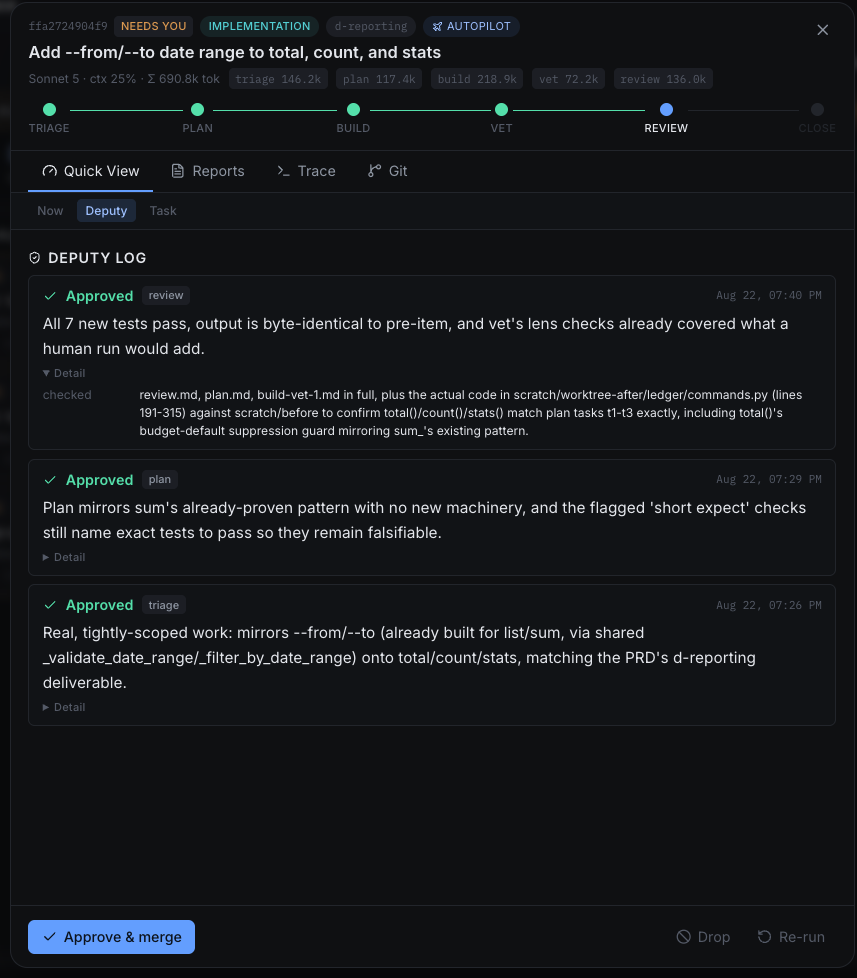
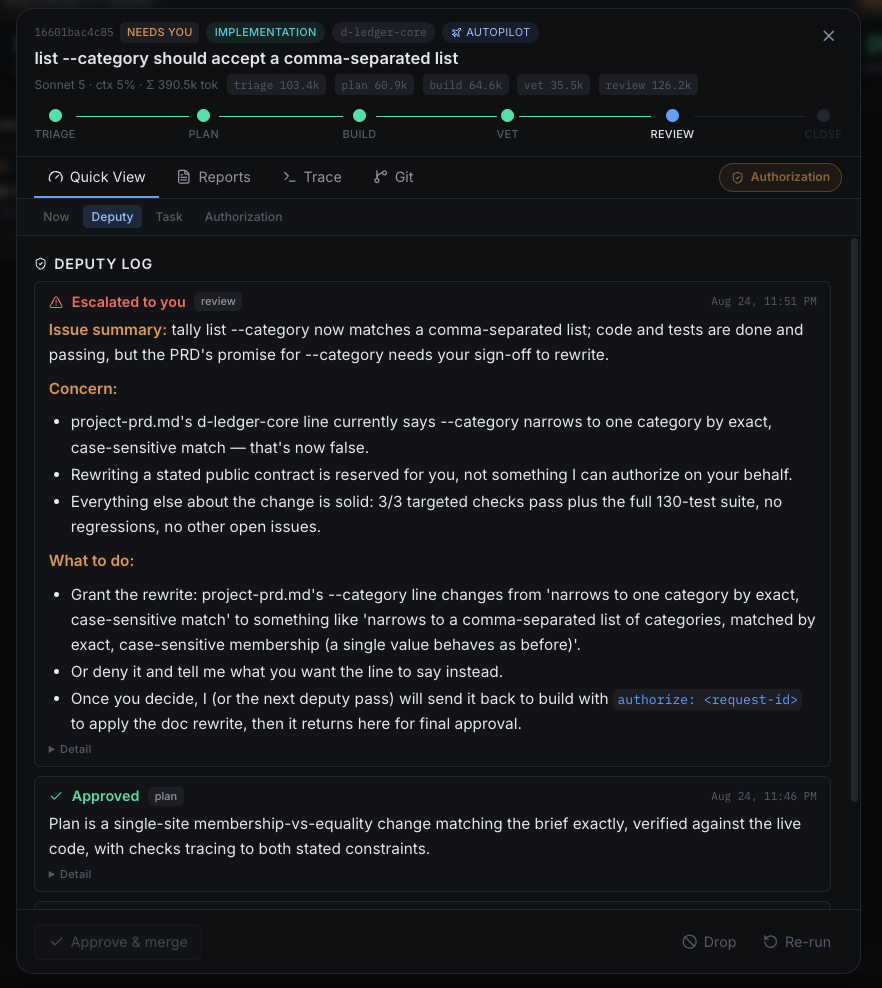
README: sharpen the pitch lines, refresh the deputy shot
The owner's own edits: bold the two sentences that carry the thesis, say
what the reports are FOR rather than what they are not, name verification
alongside defence on the task/check pairing, and describe the deputy as
soft-autopilot rather than a gate-holder. New deputy screenshot to match.

diff --git a/README.md b/README.md
@@ -76,7 +76,7 @@ Your work isn't one repo, one project, one workspace, one topic. It's projects, 
 business, and the tooling that runs them. Each piece sits under its own scope and stays there. Every
 piece is a real part of what you do with AI, and none of them connect.
 
-SuperMe is that join, gradually evolving as a digital version of you. One identity across every
+**SuperMe is that join, gradually evolving as a digital version of you.** One identity across every
 repo you own, including its own code, where each repo becomes knowledge it can read and any body of
 knowledge can become a repo.
 
@@ -91,7 +91,7 @@ That leaves you two bad options, read all of it slowly or skim it and hope. So w
 fast is not how well or how quickly it works. **It is how well it keeps you in the loop, and how
 quickly you can understand where things are.**
 
-That is what SuperMe is built to address. Work stops and waits for you wherever the decision is
+That is what **SuperMe** is built to address. Work stops and waits for you wherever the decision is
 yours, at points called gates, and nothing crosses one on its own. Everything else is engineering
 around those points. What you see when you arrive at one, and how fast you can build enough context
 to trust it and act.
@@ -115,12 +115,12 @@ These are the questions that drive the design, and they are still open.
 Every bullet here is a screenshot. Anything the interface does not show yet is in *Other features*
 below.
 
-**Reports written for you, not logs.** What it did, what to push back on, how much to trust each
+**Reports written to keep you in the loop & context and for your quick comprehension, not logs.** What it did, what to push back on, how much to trust each
 claim, and where it leaves the project.
 
 ![The plan report at a gate: a summary, the approach, and a table pairing what must be true with how you will know](assets/gate-report.png)
 
-**Every task tied to the check that defends it.** The confirmation is derived rather than written,
+**Every task tied to the check that verifies and defends it.** The confirmation is derived rather than written,
 so a task nothing proves is named at the gate instead of three cycles later.
 
 ![Tasks and verification in one view, each task listing the named tests that cover it and each check how it was run](assets/gate-task.png)
@@ -130,7 +130,7 @@ cost and how long it has been waiting printed on the card.
 
 ![The kanban board, cards showing model, context fill, tokens and age across triage, work, review and close](assets/work-items.png)
 
-**A deputy can hold the routine gates, and shows its work.** It approves only what it can justify,
+**A deputy is for speeding and soft-autopilot, holding the routine gates, and shows its work.** It approves only what it can justify,
 and every judgment records what it read to get there.
 
 ![The deputy log: each gate approved, the reasoning behind it, and the files it checked](assets/deputy.png)
@@ -175,6 +175,8 @@ context fill. Nothing is a black box when it goes wrong.
 - **Integrations.** Notion, Slack and the other places your work already lives, so knowledge
   outside your repos joins the estate too.
 
+### Quick notes & observations
+- 
 
 ---
 
